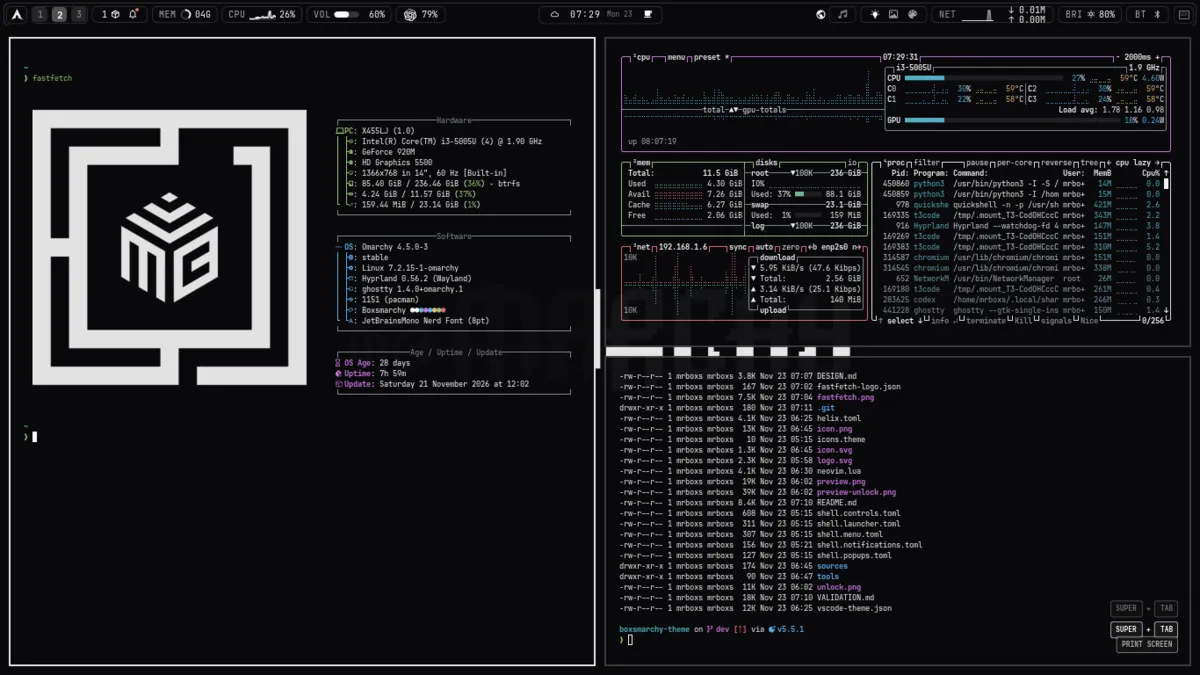
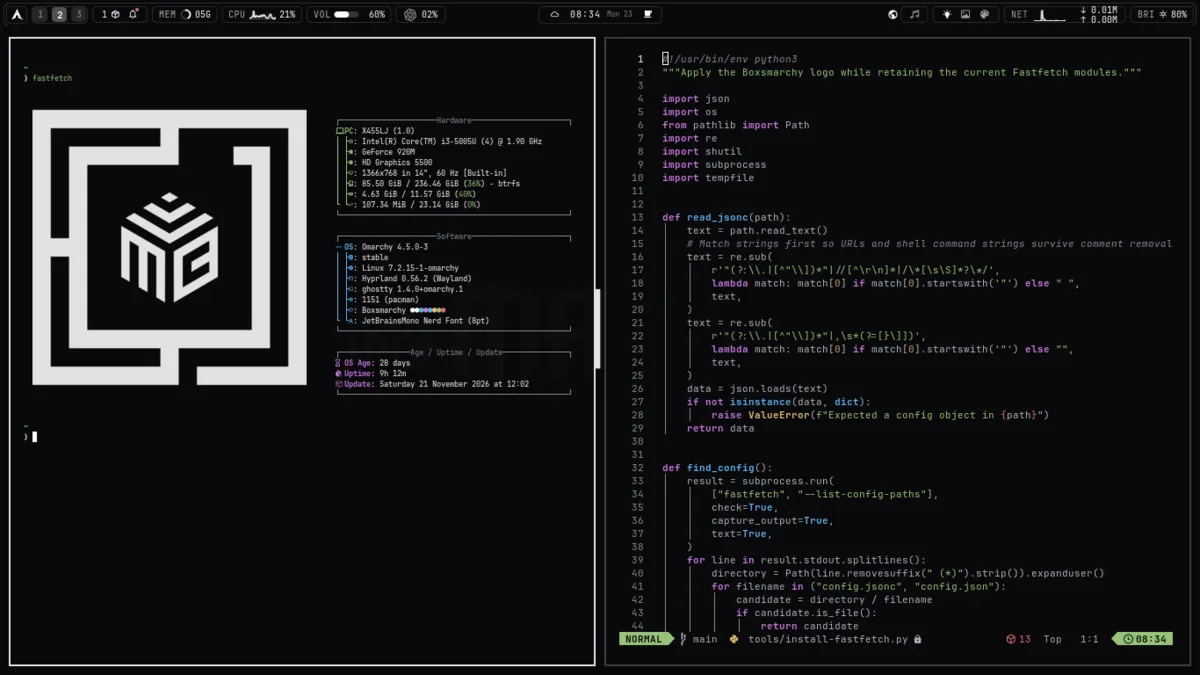
Update theme preview with Neovim
- Refresh the desktop screenshots and theme asset
- Update README copy to describe the new preview

diff --git a/README.md b/README.md
@@ -8,10 +8,10 @@ graphite panels, and white focus states frame a full One Dark syntax palette.
 
 ## Preview
 
-<img src="preview.png" width="1366" height="768" alt="Boxsmarchy desktop with the custom mrboxs Fastfetch logo, btop, and Ghostty terminals">
+<img src="preview.png" width="1366" height="768" alt="Boxsmarchy desktop with the custom mrboxs Fastfetch logo and Neovim showing One Dark syntax colors in Ghostty">
 
-The screenshot shows Ghostty, Fastfetch, and btop with JetBrainsMono Nerd Font
-at 8 pt.
+The screenshot shows Fastfetch and Neovim in Ghostty with JetBrainsMono Nerd
+Font, using 8 pt for Fastfetch and 10 pt for the editor.
 
 ## What's included
 
